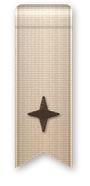
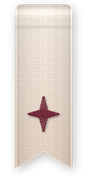
feat(bibliotheque): signets lie de vin et écru, matière plus discrète (#70)
- Essai d'une couleur d'accent lie de vin (décision suivie dans #73)
- Moins de relief, de trame et d'ombre : le premier rendu faisait old school

diff --git a/scripts/generate-ribbon-bookmarks.py b/scripts/generate-ribbon-bookmarks.py
@@ -43,8 +43,9 @@ NOTCH = 5.5                      # profondeur du V
 ICON_CENTER = (RIBBON_X + RIBBON_W / 2, 38)
 
 VARIANTS = {
-    "done": {"ribbon": ("#6a5242", "#3a2a20"), "thread": "#f4ece1", "motif": "check"},
-    "new": {"ribbon": ("#eadbc8", "#cbb399"), "thread": "#4a372b", "motif": "sparkle"},
+    # Essai d'une couleur d'accent lie de vin (demande de Lea, 2026-09-17)
+    "done": {"ribbon": ("#8c3b4c", "#5e1f2e"), "thread": "#f6ede4", "motif": "check"},
+    "new": {"ribbon": ("#f3e9df", "#e1cfbf"), "thread": "#7a2e3e", "motif": "sparkle"},
 }
 
 
@@ -89,23 +90,23 @@ def ribbon_shading(rng):
     # Lisières : un fil plus clair tout au bord (il détache le ruban d'une couverture
     # sombre), puis un fil plus dense juste à l'intérieur
     edge = np.minimum(u, 1 - u) * RIBBON_W
-    light *= 1 + 0.22 * np.exp(-((edge - 0.35) ** 2) / 0.05)
-    light *= 1 - 0.12 * np.exp(-((edge - 1.0) ** 2) / 0.08)
+    light *= 1 + 0.12 * np.exp(-((edge - 0.35) ** 2) / 0.05)
+    light *= 1 - 0.06 * np.exp(-((edge - 1.0) ** 2) / 0.08)
     # Gros-grain : côtes horizontales tous les 0,6 pt, un peu irrégulières
     phase = fractal_rows(rng, h) * 2.0
-    light *= 1 + 0.13 * np.sin((yp / 0.6) * 2 * math.pi + phase[:, None])
+    light *= 1 + 0.07 * np.sin((yp / 0.6) * 2 * math.pi + phase[:, None])
     # Chaîne : fils verticaux très fins, qu'on devine entre les côtes
-    light *= 1 + 0.05 * np.sin((xp / 0.33) * 2 * math.pi)
+    light *= 1 + 0.03 * np.sin((xp / 0.33) * 2 * math.pi)
     # Grain des fils, et quelques fils plus clairs ou plus foncés sur toute la hauteur
-    light *= 0.93 + 0.14 * rng.random((h, w)).astype(np.float32)
+    light *= 0.96 + 0.08 * rng.random((h, w)).astype(np.float32)
     columns = np.arange(0, CANVAS_W + 1, 0.33)
-    streaks = np.interp(xp, columns, 0.96 + 0.08 * rng.random(len(columns)))
+    streaks = np.interp(xp, columns, 0.98 + 0.04 * rng.random(len(columns)))
     light *= streaks
     # Le pli : le haut du ruban s'arrondit vers l'arrière (plus sombre tout en haut),
     # prend la lumière juste dessous, puis un pli fin là où il passe sur le bord
-    light *= 1 - 0.3 * np.exp(-((yp - TOP) ** 2) / 1.2)
-    light *= 1 + 0.18 * np.exp(-((yp - (TOP + 2.6)) ** 2) / 1.6)
-    light *= 1 - 0.14 * np.exp(-((yp - COVER_TOP) ** 2) / 0.25)
+    light *= 1 - 0.15 * np.exp(-((yp - TOP) ** 2) / 1.2)
+    light *= 1 + 0.1 * np.exp(-((yp - (TOP + 2.6)) ** 2) / 1.6)
+    light *= 1 - 0.08 * np.exp(-((yp - COVER_TOP) ** 2) / 0.25)
     return light
 
 
@@ -214,11 +215,11 @@ def embroidery(kind, thread_hex, rng):
     # Relief : chaque fil s'arrondit, reflet en haut à gauche, creux en bas à droite
     up = np.roll(np.roll(alpha, -int(0.25 * S), 0), -int(0.25 * S), 1)
     down = np.roll(np.roll(alpha, int(0.25 * S), 0), int(0.25 * S), 1)
-    relief = np.clip(alpha - down, 0, 1) * 0.25 - np.clip(alpha - up, 0, 1) * 0.2
+    relief = np.clip(alpha - down, 0, 1) * 0.15 - np.clip(alpha - up, 0, 1) * 0.12
     color = np.clip(color * (1 + relief[..., None]), 0, 1)
 
     # Ombre portée des fils sur le ruban
-    shadow = blur(np.roll(np.roll(alpha, int(0.45 * S), 0), int(0.3 * S), 1), 0.35) * 0.55
+    shadow = blur(np.roll(np.roll(alpha, int(0.45 * S), 0), int(0.3 * S), 1), 0.35) * 0.35
     return color, alpha, shadow
 
 
@@ -237,7 +238,7 @@ def render(name, spec, rng):
     rgb = rgb * (1 - thread_a[..., None]) + thread * thread_a[..., None]
 
     # Ombre du ruban : plus nette sur la couverture (il est posé dessus)
-    shadow = blur(np.roll(np.roll(mask, int(0.9 * S), 0), int(0.7 * S), 1), 1.1) * 0.42
+    shadow = blur(np.roll(np.roll(mask, int(0.9 * S), 0), int(0.7 * S), 1), 1.4) * 0.3
     alpha = np.clip(mask + shadow * (1 - mask), 0, 1)
     shadow_only = (1 - mask) * shadow
     # Là où il n'y a que l'ombre, la couleur est l'ombre elle-même (noyer très sombre)

diff --git a/DESIGN.md b/DESIGN.md
@@ -602,9 +602,10 @@ Un signet en ruban qui sort du haut du livre, passe par-dessus le bord de la
 couverture et pend devant elle, bout coupé en V, avec un motif **brodé au point
 passé**. C'est la direction « maille » : du textile réaliste, pas un pictogramme.
 
-- **Ruban** : gros-grain (côtes horizontales, chaîne fine, fils plus clairs ou plus
-  foncés), lisière claire qui le détache d'une couverture sombre, pli au-dessus du
-  bord, dégradé clair en haut → foncé en bas, ombre portée sur la couverture.
+- **Ruban** : gros-grain (côtes horizontales, chaîne fine), lisière un peu plus
+  claire, pli au-dessus du bord, dégradé clair en haut → foncé en bas, ombre portée
+  douce sur la couverture. **Matière discrète** : trop de relief, de trame et
+  d'ombre faisait « old school » (skeuomorphisme des débuts de l'iPhone).
 - **Broderie** : fils serrés et à peine obliques qui traversent tout le trait,
   bouts arrondis, coins adoucis, relief (reflet en haut à gauche) et ombre des fils
   sur le ruban.
@@ -614,8 +615,12 @@ passé**. C'est la direction « maille » : du textile réaliste, pas un pictogr
 
 | Variante | Ruban | Fil | Motif | Pour |
 |---|---|---|---|---|
-| `done` | noyer `#6a5242` → `#3a2a20` | crème | coche | livre terminé |
-| `new` | sable `#eadbc8` → `#cbb399` | noyer | étincelle | dernier livre ajouté |
+| `done` | lie de vin `#8c3b4c` → `#5e1f2e` | crème | coche | livre terminé |
+| `new` | écru `#f3e9df` → `#e1cfbf` | lie de vin | étincelle | dernier livre ajouté |
+
+Le lie de vin est un **essai de couleur d'accent** (issue dédiée sur le BBB
+Roadmap), pas encore adopté pour le reste de l'app. Premier essai en noyer et
+sable : terne, « pas ouf ».
 
 Essai écarté : l'autocollant rond (bord blanc découpé), « pas réaliste, pas
 intéressant ».
